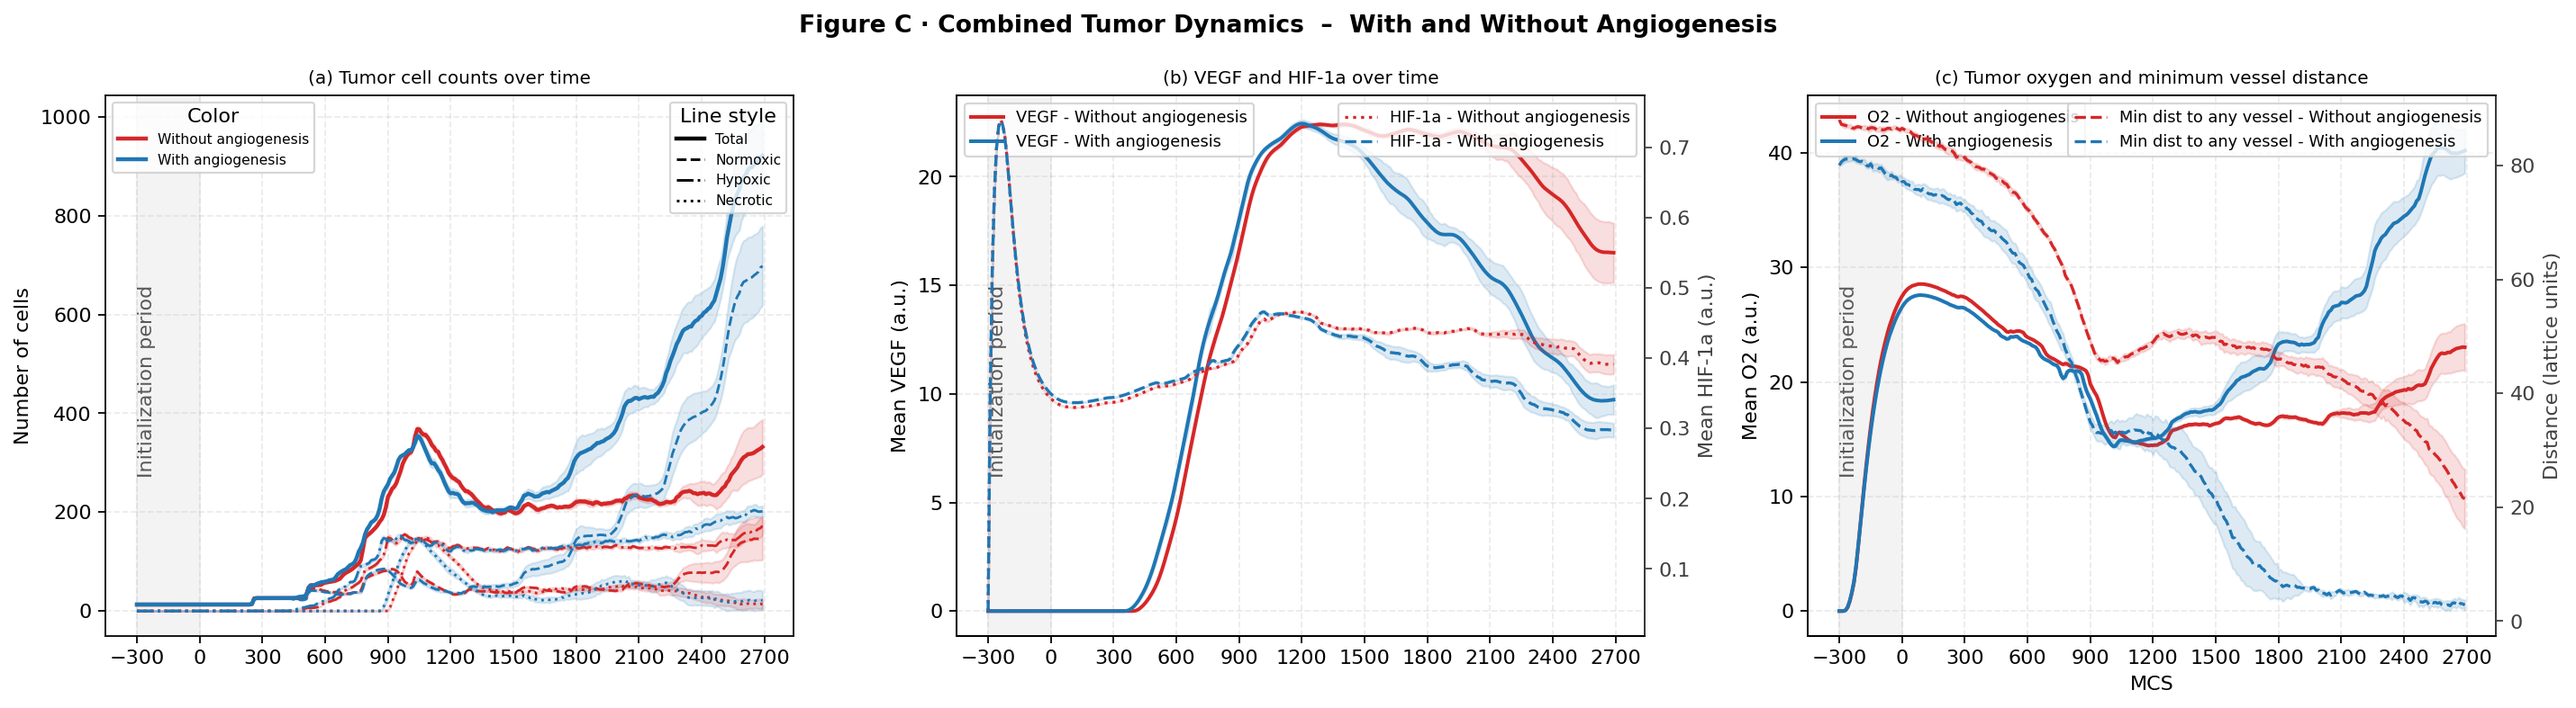
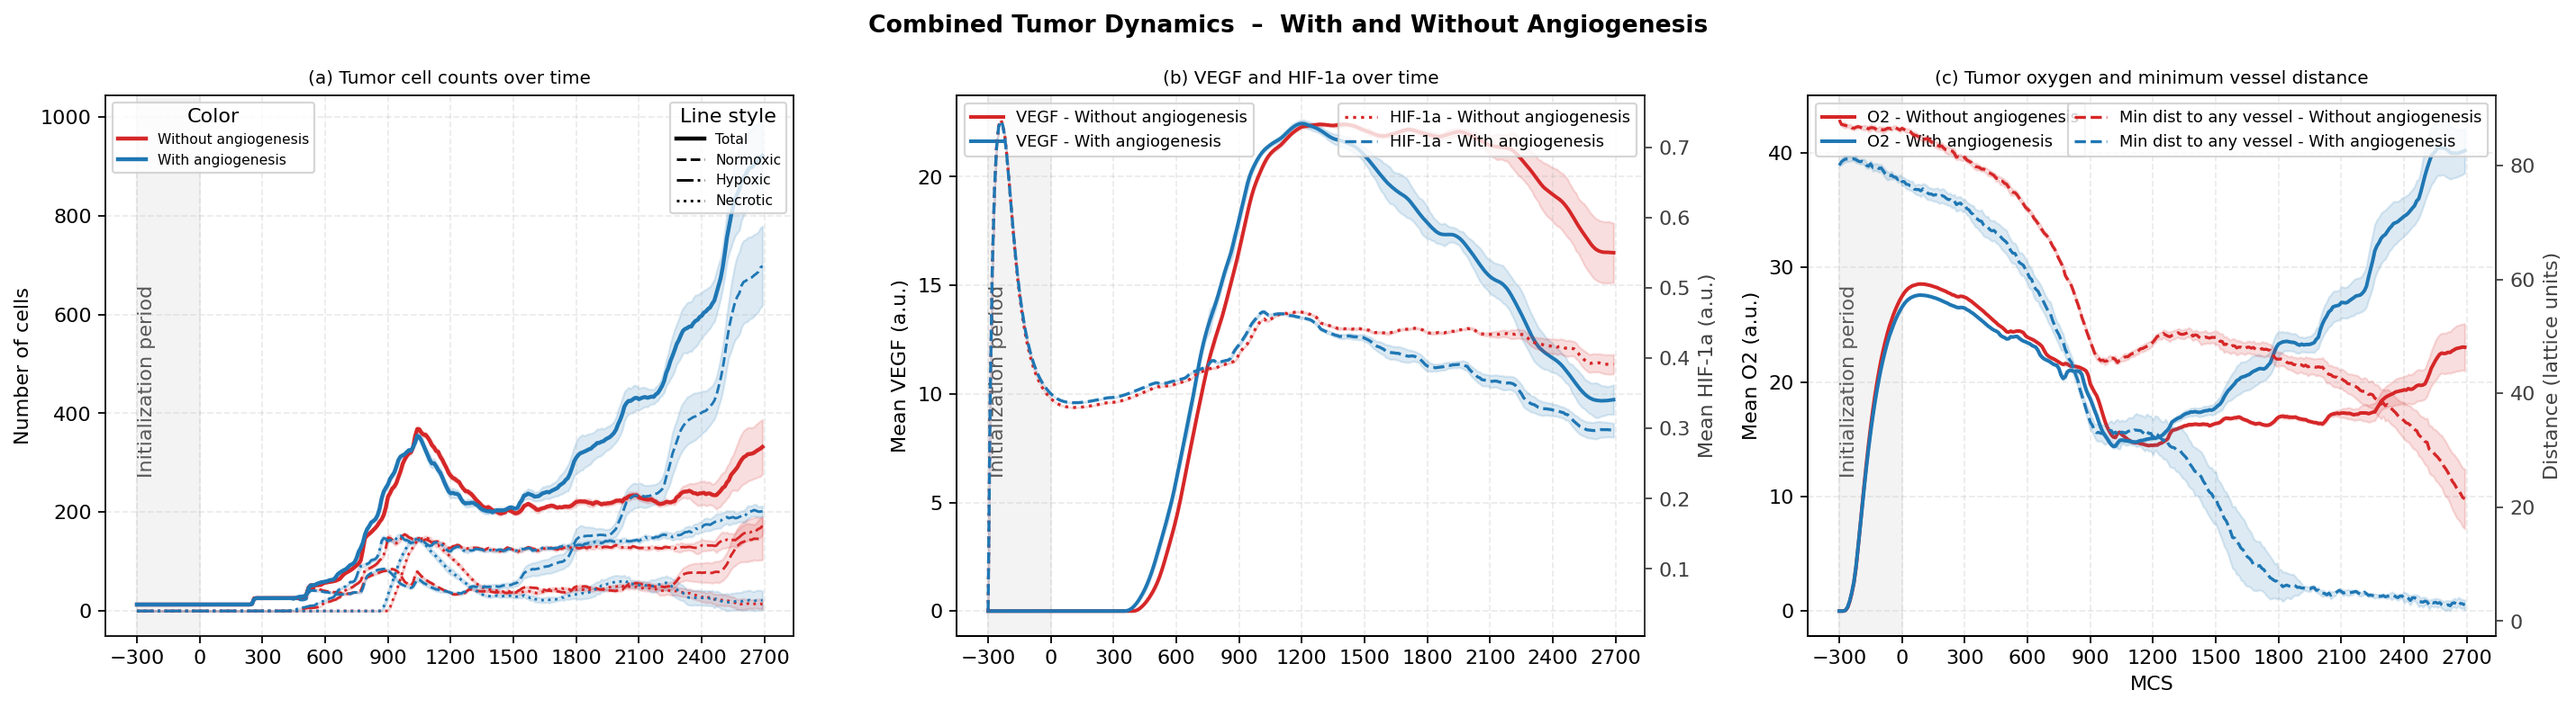
updated figures

Changed region(s): [[0.3112, 0.0, 0.6846, 0.061]]

diff --git a/assignment3/scripts/plot_comparison_figures.py b/assignment3/scripts/plot_comparison_figures.py
@@ -164,7 +164,7 @@ def figure_A_tumor_vs_angiogenesis(
     """
     fig, axes = plt.subplots(1, 3, figsize=(18, 5))
     fig.suptitle(
-        "Figure A · Tumor Growth - With and Without Angiogenesis",
+        "Tumor Growth - With and Without Angiogenesis",
         fontsize=12, fontweight="bold",
     )
 
@@ -266,7 +266,7 @@ def figure_B_endothelial_activation(
     """
     fig, axes = plt.subplots(1, 3, figsize=(18, 5), sharex=True)
     fig.suptitle(
-        "Figure B · Endothelial Activation - With and Without HIF-1α",
+        "Endothelial Activation - With and Without HIF-1α",
         fontsize=12, fontweight="bold",
     )
 
@@ -360,7 +360,7 @@ def figure_C_combined_tumor_dynamics(
     """
     fig, axes = plt.subplots(1, 3, figsize=(18, 5), sharex=True)
     fig.suptitle(
-        "Figure C · Combined Tumor Dynamics  –  With and Without Angiogenesis",
+        "Combined Tumor Dynamics  –  With and Without Angiogenesis",
         fontsize=12, fontweight="bold",
     )
 
